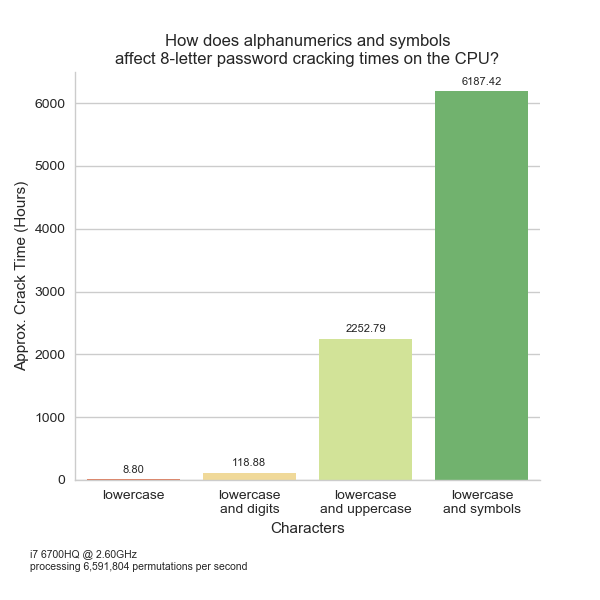
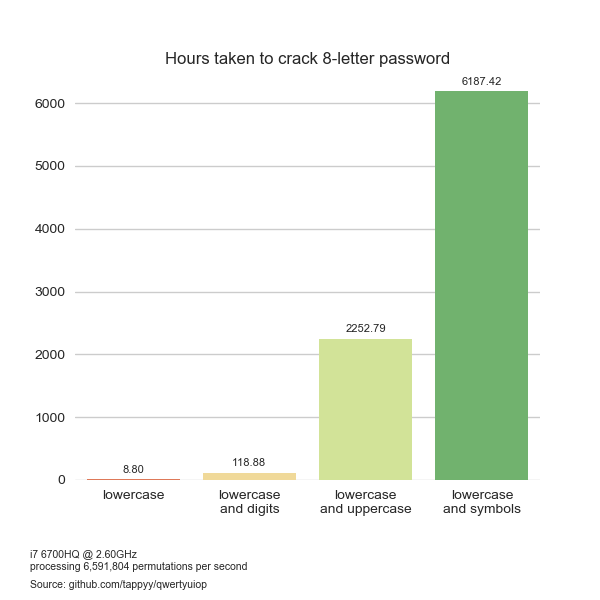
finalised seaborn code

diff --git a/seaborn-graphs/alphanumerics-symbols.py b/seaborn-graphs/alphanumerics-symbols.py
@@ -1,0 +1,41 @@
+import pandas as pd
+import numpy as np
+import seaborn as sb
+import matplotlib.pyplot as plt
+
+# import csv and convert to dataframe
+df_pwds = pd.read_csv('output.csv')
+df_pwds.sort_values('Crack Time H', inplace=True)
+
+# sizing
+sb.set_style('whitegrid')
+sb.set_context("notebook")
+plt.figure(figsize=(6, 6)) #600 x 600 dim
+plt.subplots_adjust(bottom=0.2) # increase bottom margin
+
+# create plot
+graph = sb.barplot(x='Password', y='Crack Time H', data=df_pwds, palette=sb.color_palette("RdYlGn", 4))
+
+# annotate bar values
+for p in graph.patches:
+    height = p.get_height()
+    graph.text(p.get_x()+p.get_width()/2.,
+            height + 100,
+            '{:1.2f}'.format(height),
+            ha="center", fontsize=8)
+
+# styling
+bars = ('lowercase', 'lowercase\nand digits','lowercase\nand uppercase', 'lowercase\nand symbols')
+ypos = np.arange(len(bars))
+plt.xticks(ypos, bars) # custom x-axis labels
+plt.title('Hours taken to crack 8-letter password')
+plt.xlabel('')
+plt.ylabel('')
+sb.despine(left=True, bottom=True)
+
+# notes
+graph.figure.text(0.05, 0.05, 'i7 6700HQ @ 2.60GHz\nprocessing 6,591,804 permutations per second', fontsize=7.5)
+graph.figure.text(0.05, 0.02, 'Source: github.com/tappyy/qwertyuiop', fontsize=7.5)
+
+# output graph to file
+graph.figure.savefig('seaborn-graphs/alphanumerics-symbols.png')
